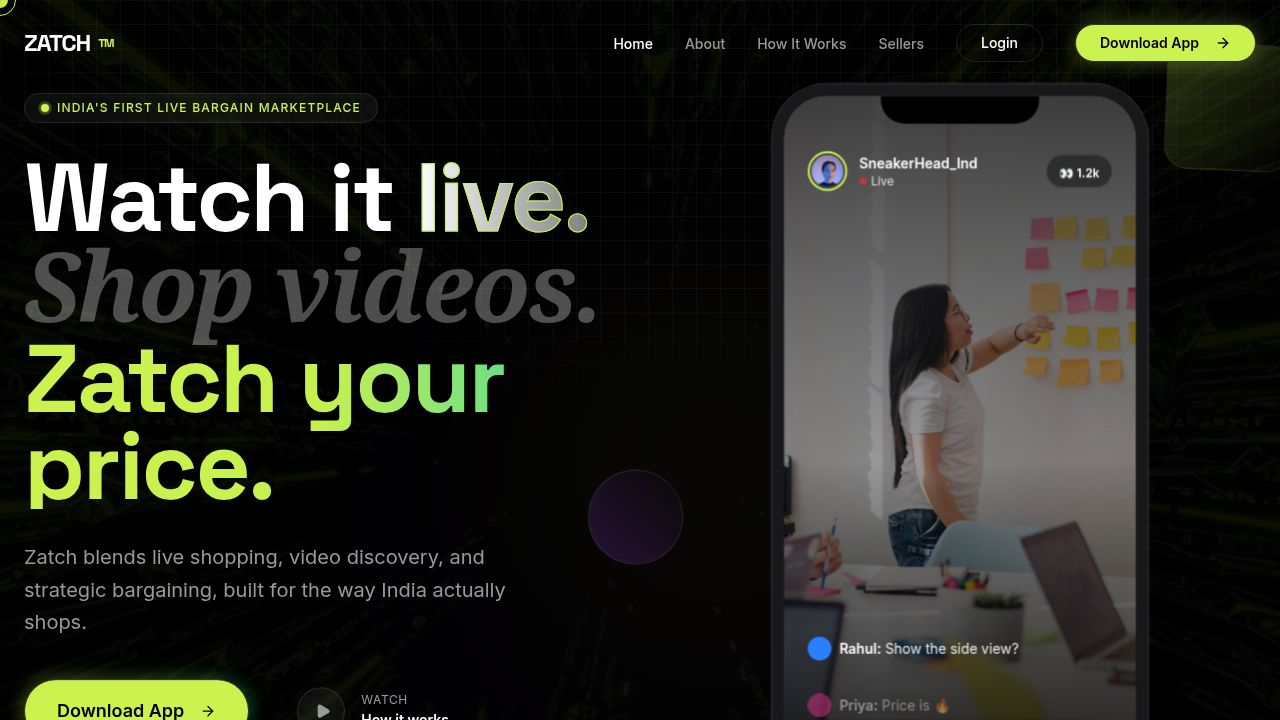
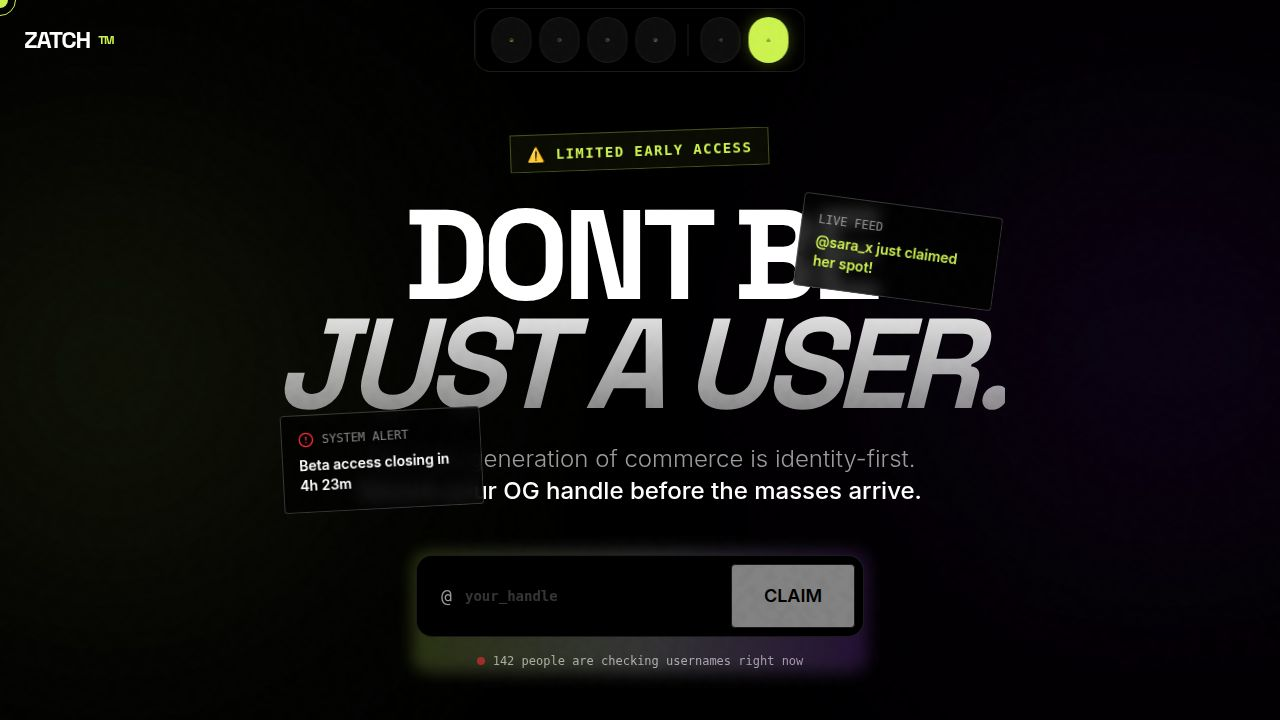
Introduce unorthodox username claiming hero section to drive sign-ups
Replaces the existing Hero component with ClaimUsernameHero, which focuses on psychologically driven lead generation through username reservation, scarcity, and a "glitch" aesthetic.

Replit-Commit-Author: Agent
Replit-Commit-Session-Id: 074d11bc-769d-442b-83e9-60603478636f
Replit-Commit-Checkpoint-Type: full_checkpoint
Replit-Commit-Event-Id: 4039888d-9927-4cc6-856a-46ca4f5c8de6
Replit-Commit-Screenshot-Url: https://storage.googleapis.com/screenshot-production-us-central1/a6b22d07-821e-4c69-b944-390edc69f984/074d11bc-769d-442b-83e9-60603478636f/GtkyZYp
Replit-Helium-Checkpoint-Created: true

diff --git a/client/src/components/sections/ClaimUsernameHero.tsx b/client/src/components/sections/ClaimUsernameHero.tsx
@@ -1,0 +1,157 @@
+import { useState, useEffect } from "react";
+import { motion, AnimatePresence } from "framer-motion";
+import { ArrowRight, Check, Loader2, AlertCircle } from "lucide-react";
+import { Input } from "@/components/ui/input";
+import { Button } from "@/components/ui/button";
+
+export function ClaimUsernameHero() {
+  const [username, setUsername] = useState("");
+  const [status, setStatus] = useState<"idle" | "checking" | "available" | "taken">("idle");
+  const [email, setEmail] = useState("");
+  const [step, setStep] = useState<1 | 2>(1);
+
+  useEffect(() => {
+    if (username.length > 2) {
+      const timer = setTimeout(() => {
+        setStatus("checking");
+        setTimeout(() => {
+          setStatus(Math.random() > 0.2 ? "available" : "taken");
+        }, 800);
+      }, 500);
+      return () => clearTimeout(timer);
+    } else {
+      setStatus("idle");
+    }
+  }, [username]);
+
+  return (
+    <section className="relative min-h-screen flex flex-col items-center justify-center overflow-hidden bg-black pt-20">
+      {/* Chaos Background */}
+      <div className="absolute inset-0 pointer-events-none">
+        <div className="absolute top-0 left-0 w-full h-full bg-[url('https://grainy-gradients.vercel.app/noise.svg')] opacity-20 brightness-100 contrast-150 mix-blend-overlay"></div>
+        <div className="absolute top-1/4 -left-20 w-96 h-96 bg-primary/20 rounded-full blur-[150px] mix-blend-screen animate-pulse duration-1000"></div>
+        <div className="absolute bottom-1/4 -right-20 w-96 h-96 bg-purple-600/20 rounded-full blur-[150px] mix-blend-screen animate-pulse duration-2000"></div>
+      </div>
+
+      <div className="container relative z-10 px-6 max-w-4xl mx-auto text-center">
+        <motion.div
+          initial={{ opacity: 0, scale: 0.9 }}
+          animate={{ opacity: 1, scale: 1 }}
+          transition={{ duration: 0.8, ease: "circOut" }}
+        >
+          <div className="inline-block border border-primary/30 bg-primary/5 backdrop-blur-md px-4 py-1.5 rounded-none transform -rotate-2 mb-8">
+             <span className="font-mono text-primary text-sm tracking-widest uppercase font-bold">⚠ Limited Early Access</span>
+          </div>
+          
+          <h1 className="text-6xl md:text-9xl font-bold font-display tracking-tighter leading-[0.85] mb-6 text-white mix-blend-difference">
+            DONT BE <br />
+            <span className="text-transparent bg-clip-text bg-gradient-to-b from-white to-white/40 italic">JUST A USER.</span>
+          </h1>
+          
+          <p className="text-xl md:text-2xl text-muted-foreground max-w-xl mx-auto mb-12 font-light">
+            The next generation of commerce is identity-first. <br/>
+            <span className="text-white font-medium">Secure your OG handle before the masses arrive.</span>
+          </p>
+        </motion.div>
+
+        {/* The Hook: Username Claim */}
+        <div className="max-w-md mx-auto relative group">
+           <div className="absolute -inset-1 bg-gradient-to-r from-primary via-white to-purple-500 rounded-lg blur opacity-20 group-hover:opacity-50 transition duration-500"></div>
+           
+           <div className="relative bg-black border border-white/10 p-2 rounded-lg flex flex-col gap-2">
+              <AnimatePresence mode="wait">
+                {step === 1 ? (
+                  <motion.div
+                    key="step1"
+                    initial={{ opacity: 0, x: -20 }}
+                    animate={{ opacity: 1, x: 0 }}
+                    exit={{ opacity: 0, x: 20 }}
+                    className="flex items-center gap-2"
+                  >
+                     <div className="flex-1 relative">
+                        <span className="absolute left-4 top-1/2 -translate-y-1/2 text-muted-foreground font-mono text-lg">@</span>
+                        <Input 
+                           value={username}
+                           onChange={(e) => setUsername(e.target.value.toLowerCase().replace(/[^a-z0-9_]/g, ''))}
+                           placeholder="your_handle" 
+                           className="pl-10 h-16 bg-transparent border-none text-2xl font-bold text-white placeholder:text-white/20 focus-visible:ring-0 font-mono"
+                        />
+                        <div className="absolute right-4 top-1/2 -translate-y-1/2">
+                           {status === "checking" && <Loader2 className="animate-spin text-muted-foreground" />}
+                           {status === "available" && <div className="bg-primary/20 text-primary px-2 py-1 rounded text-xs font-bold uppercase tracking-wider">Available</div>}
+                           {status === "taken" && <div className="bg-red-500/20 text-red-500 px-2 py-1 rounded text-xs font-bold uppercase tracking-wider">Taken</div>}
+                        </div>
+                     </div>
+                     <Button 
+                        disabled={status !== "available"}
+                        onClick={() => setStep(2)}
+                        className="h-16 px-8 bg-white text-black hover:bg-primary font-bold text-lg rounded transition-all disabled:opacity-50 disabled:cursor-not-allowed"
+                     >
+                        CLAIM
+                     </Button>
+                  </motion.div>
+                ) : (
+                  <motion.div
+                    key="step2"
+                    initial={{ opacity: 0, x: -20 }}
+                    animate={{ opacity: 1, x: 0 }}
+                    exit={{ opacity: 0, x: 20 }}
+                    className="flex items-center gap-2"
+                  >
+                     <Input 
+                        value={email}
+                        onChange={(e) => setEmail(e.target.value)}
+                        placeholder="Enter your email to lock it" 
+                        type="email"
+                        className="h-16 bg-transparent border-none text-xl font-medium text-white placeholder:text-white/20 focus-visible:ring-0 px-6"
+                     />
+                     <Button 
+                        className="h-16 px-8 bg-primary text-black hover:bg-white font-bold text-lg rounded transition-all flex items-center gap-2"
+                     >
+                        LOCK IT <Check className="w-5 h-5" />
+                     </Button>
+                  </motion.div>
+                )}
+              </AnimatePresence>
+           </div>
+           
+           {/* Social Proof / Urgency Ticker */}
+           <div className="mt-4 flex items-center justify-center gap-2 text-xs font-mono text-muted-foreground">
+              <div className="w-2 h-2 rounded-full bg-red-500 animate-pulse"></div>
+              <span>142 people are checking usernames right now</span>
+           </div>
+        </div>
+
+        {/* Floating "Raw" Elements */}
+        <motion.div 
+           animate={{ y: [0, -20, 0], rotate: [0, 5, 0] }}
+           transition={{ duration: 4, repeat: Infinity, ease: "easeInOut" }}
+           className="absolute top-20 right-[10%] hidden lg:block"
+        >
+           <div className="bg-black/80 backdrop-blur border border-white/20 p-4 rounded max-w-[200px] text-left transform rotate-6">
+              <p className="text-xs text-white/50 mb-1 font-mono">LIVE FEED</p>
+              <p className="text-sm text-primary font-bold">@sara_x just claimed her spot!</p>
+           </div>
+        </motion.div>
+        
+        <motion.div 
+           animate={{ y: [0, 20, 0], rotate: [0, -5, 0] }}
+           transition={{ duration: 5, repeat: Infinity, ease: "easeInOut", delay: 1 }}
+           className="absolute bottom-40 left-[10%] hidden lg:block"
+        >
+           <div className="bg-black/80 backdrop-blur border border-white/20 p-4 rounded max-w-[200px] text-left transform -rotate-3">
+              <div className="flex items-center gap-2 mb-2">
+                 <AlertCircle className="w-4 h-4 text-red-500" />
+                 <p className="text-xs text-white/50 font-mono">SYSTEM ALERT</p>
+              </div>
+              <p className="text-sm text-white font-bold">Beta access closing in 4h 23m</p>
+           </div>
+        </motion.div>
+
+      </div>
+      
+      {/* Glitch Overlay Effect */}
+      <div className="absolute inset-0 z-50 pointer-events-none opacity-[0.03] bg-[url('https://media.giphy.com/media/oEI9uBYSzLpBK/giphy.gif')] bg-cover mix-blend-overlay"></div>
+    </section>
+  );
+}

diff --git a/client/src/pages/home.tsx b/client/src/pages/home.tsx
@@ -1,6 +1,6 @@
 import { Navbar } from "@/components/layout/Navbar";
 import { Footer } from "@/components/layout/Footer";
-import { Hero } from "@/components/sections/Hero";
+import { ClaimUsernameHero } from "@/components/sections/ClaimUsernameHero";
 import { FullScreenScroll } from "@/components/sections/FullScreenScroll";
 import { ThreeWays } from "@/components/sections/ThreeWays";
 import { ForBuyers } from "@/components/sections/ForBuyers";
@@ -14,7 +14,7 @@ export default function Home() {
       <Navbar />
       
       <main>
-        <Hero />
+        <ClaimUsernameHero />
         <FullScreenScroll />
         <ThreeWays />
         <ForBuyers />
